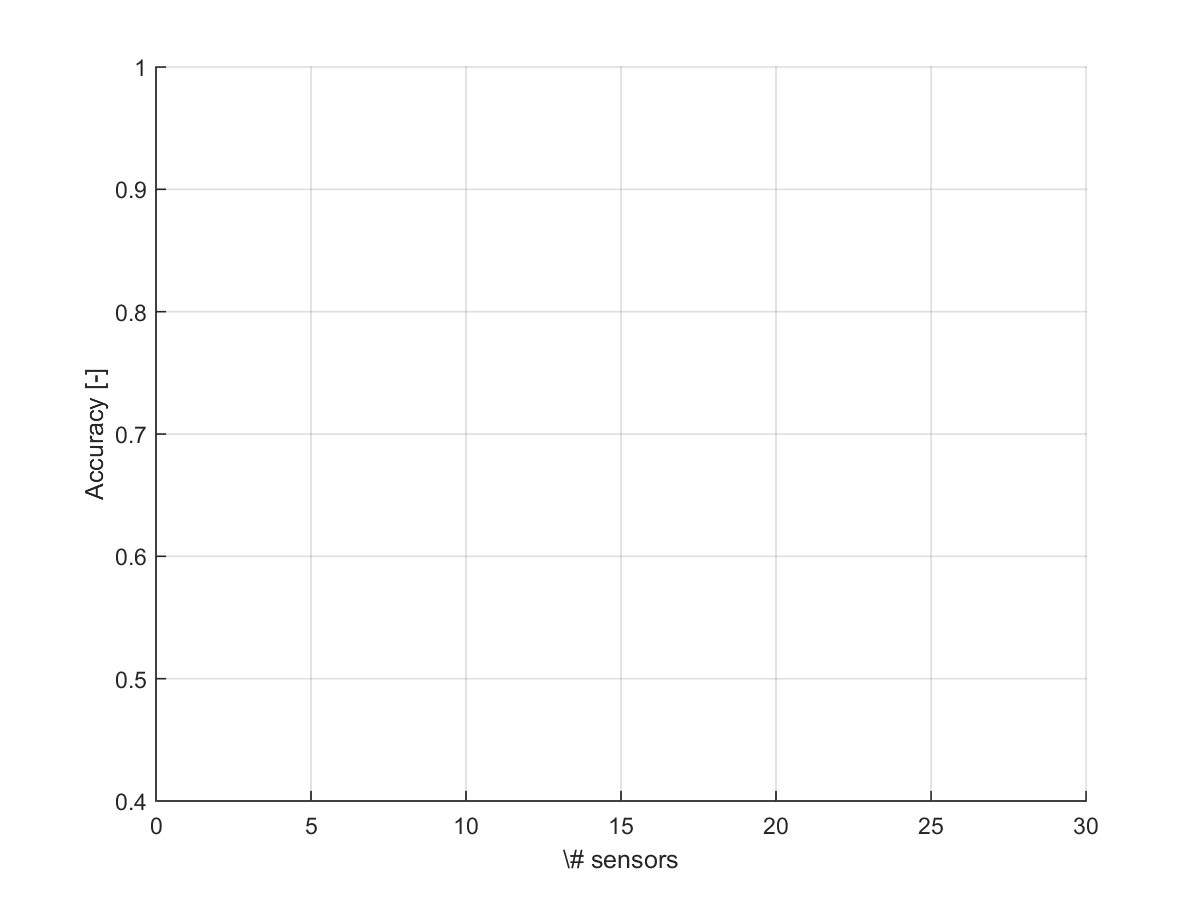
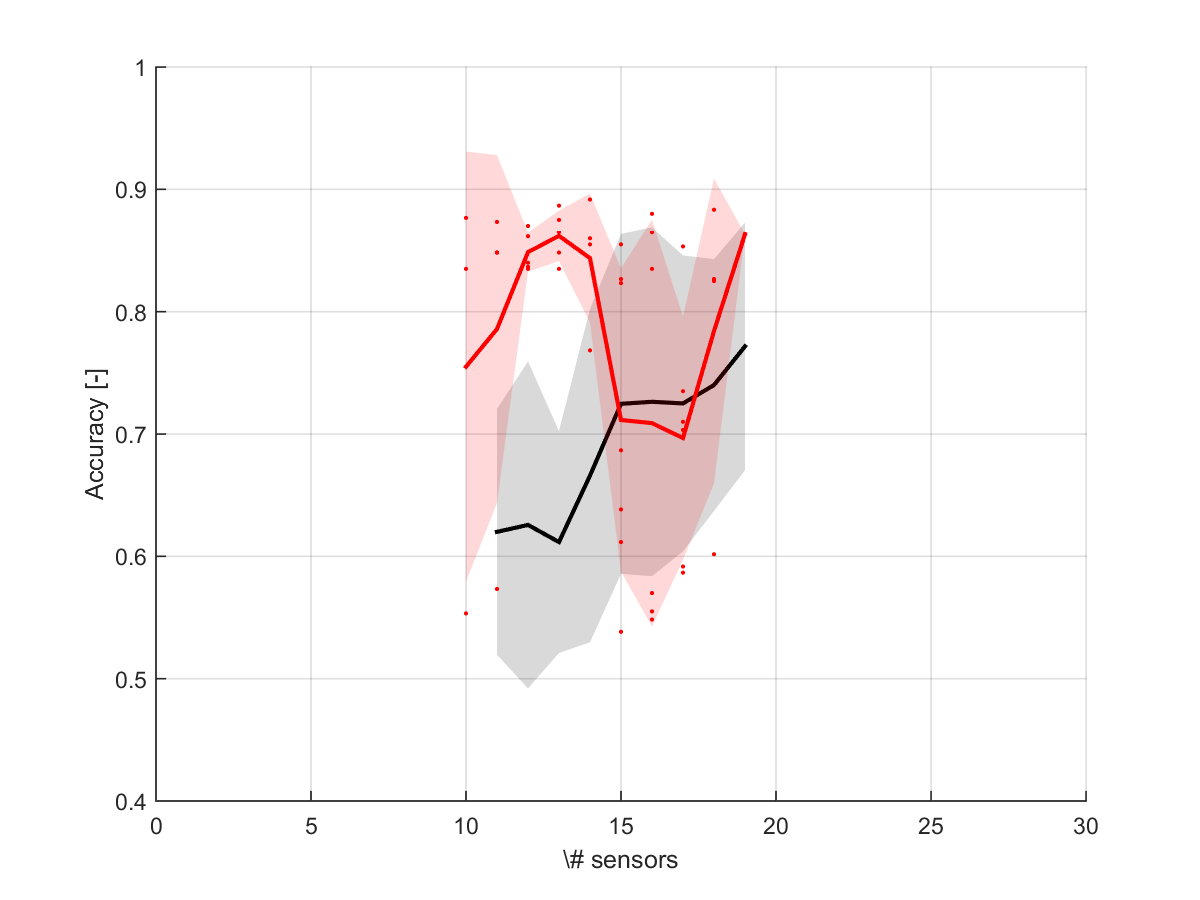
pushing data from more runs 18

Changed region(s): [[0.37, 0.1556, 0.6475, 0.7778]]

diff --git a/functions/SSPOC_test.m b/functions/SSPOC_test.m
@@ -1,4 +1,4 @@
-function [s] = SSPOC_test(Psi, w, varargin)
+function [s] = SSPOC_CVXtest(Psi, w, par,varargin)
 % function [s] = SSPOC(Psi, w, varargin)
 %
 % INPUTS:
@@ -58,11 +58,20 @@ c = size(w, 2);
 % solve Psi'*s = w
 % using the l1 norm to promote sparsity
 unit = ones(c,1);
-cvx_begin quiet
-    variable s( n, c );
-%     minimize( norm(s(:),1) + inputs.lambda*norm(s*unit,1) ); %#ok<NODEF>
-    minimize( norm(s,1))
-    subject to
-        Psi'*s == w;
-%         norm(Psi'*s - w, 'fro') <= inputs.epsilon; %#ok<VUNUS>
-cvx_end
+if par.CVXcase == 1
+    cvx_begin quiet
+        variable s( n, c );
+    %     minimize( norm(s(:),1) + inputs.lambda*norm(s*unit,1) ); %#ok<NODEF>
+        minimize( norm(s,1))
+        subject to
+            norm(Psi'*s - w, 'fro') <= inputs.epsilon; %#ok<VUNUS>
+    cvx_end
+elseif par.CVXcase == 2;
+        cvx_begin quiet
+        variable s( n, c );
+    %     minimize( norm(s(:),1) + inputs.lambda*norm(s*unit,1) ); %#ok<NODEF>
+        minimize( norm(s,1))
+        subject to
+            Psi'*s == w;
+    cvx_end
+end

diff --git a/scripts/CVX_testscript.m b/scripts/CVX_testscript.m
@@ -11,9 +11,10 @@ addpathFolderStructure()
 par = setParameters;
 [varParList,varParList_short] = setVariableParameters_CVXtestscript(par);
 par.varParNames = fieldnames(varParList);
-par.iter = 5;
-par.saveNameTest = 'formulate_equality';
-
+par.iter = 1;
+% par.saveNameTest = 'formulate_equality';
+par.saveNameTest = 'formulate_original';par.CVXcase = 1; % original formulation
+par.saveNameTest = 'formulate_equality'; par.CVXcase = 2; % equality
 
 %% Run simulation and Sparse sensor placement for combinations of 4 parameters, over a set number of iterations
 
@@ -37,7 +38,7 @@ for j = 1:length(varParList)
 %%%%%%%%%%%%%%%%%%%%%%%%%%TESTSECTION%%%%%%%%%%%%%%%%%%%%%%%%%%%%%%%%%%%%%%
 %%%%%%%%%%%%%%%%%%%%%%%%%%%%%%%%%%%%%%%%%%%%%%%%%%%%%%%%%%%%%%%%%%%%%%%%%%%
             
-            sensors = sensorLocSSPOC(Xtrain,Gtrain,par);
+            sensors = sensorLocSSPOC_CVXtest(Xtrain,Gtrain,par);
             
 %             sensors = 
             acc = sensorLocClassify(  sensors,Xtrain,Gtrain,Xtest,Gtest );

diff --git a/functions/sensorLocSSPOC_testSSPOC.m b/functions/sensorLocSSPOC_testSSPOC.m
@@ -1,4 +1,4 @@
-function  [  sensors  ] = sensorLocSSPOC_testSSPOC(  Xtrain,Gtrain , par)
+function  [  sensors  ] = sensorLocSSPOC_CVXtest(  Xtrain,Gtrain , par)
 %UNTITLED Summary of this function goes here
 %   Detailed explanation goes here
 % [  sensors  ] = SensorLocSSPOC_april(   Xtrain,Gtrain,r,SSPOC_on,w_trunc , par)
@@ -25,7 +25,13 @@ function  [  sensors  ] = sensorLocSSPOC_testSSPOC(  Xtrain,Gtrain , par)
             w_t = w_r(big_modes);
             Psi = Psi(:,big_modes);
         end
-        s = SSPOC_test(Psi,w_t);
+        
+        
+        
+        
+        s = SSPOC_CVXtest(Psi,w_t,par);
+        
+        
         s = sum(s, 2);   
 
         [~, I_top] = sort( abs(s));
